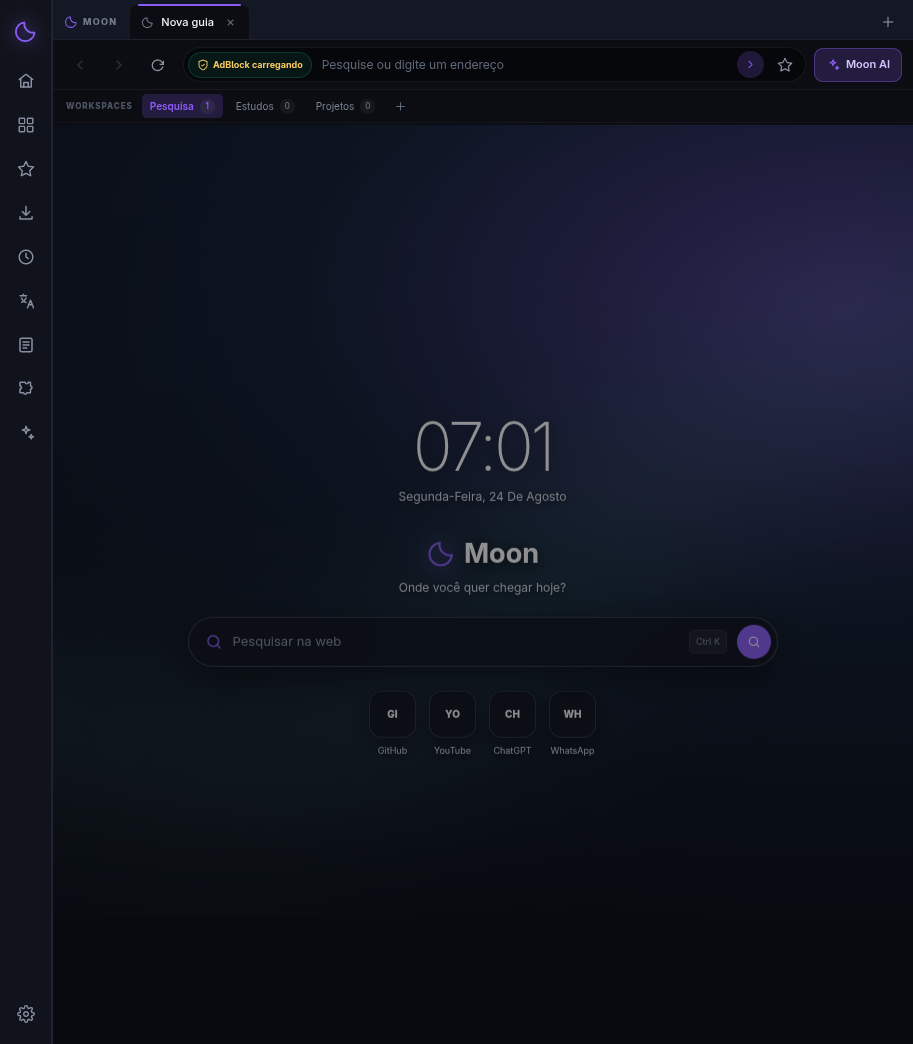
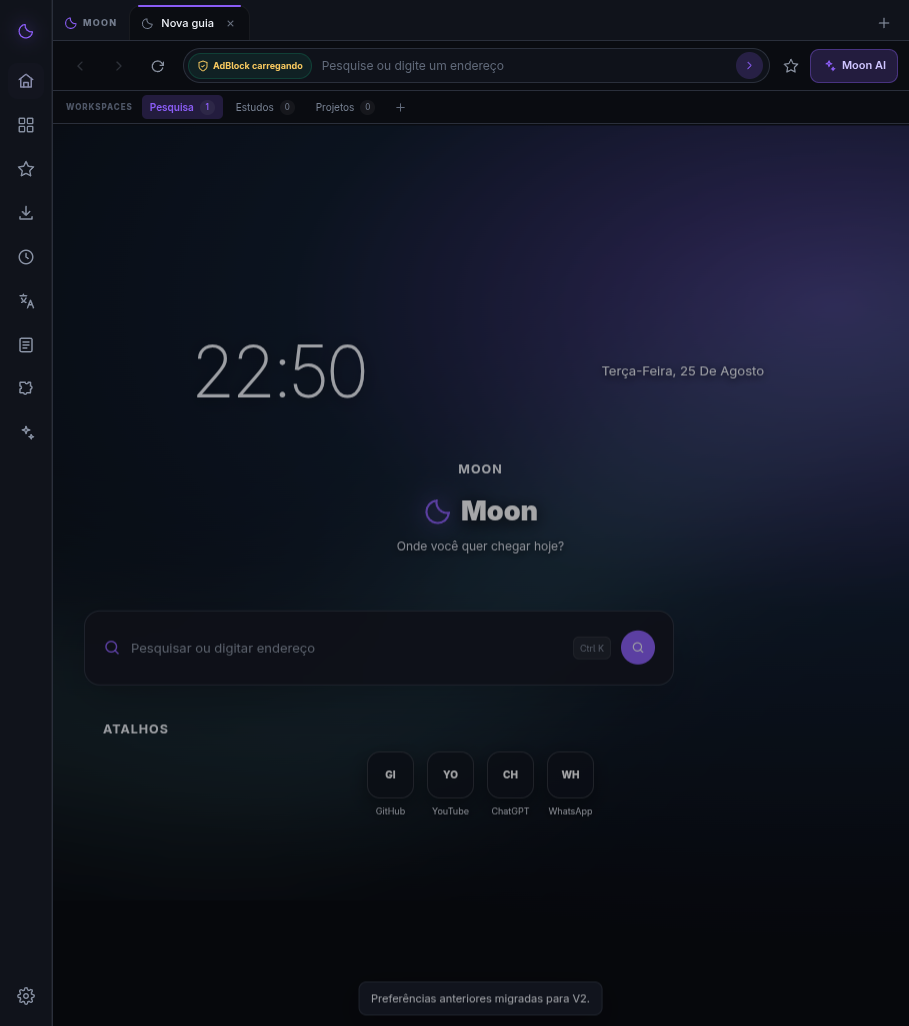
.

diff --git a/ui/customization/customization-center.ts b/ui/customization/customization-center.ts
@@ -185,8 +185,8 @@ export class CustomizationCenter {
 
   #typography(config: CustomizationConfig): void {
     this.#intro("Tipografia", "Escalas separadas sem alterar o zoom das páginas visitadas.");
-    const rhythm = this.#group("Família e ritmo", "Família instalada com fallbacks; caracteres capazes de injetar CSS são rejeitados.", "fonte família tamanho escala peso line height spacing"); rhythm.append(this.#input("Família", config.typography.family, "text", value => this.#set("typography.family", value), "Inter, system-ui, sans-serif"), this.#rangeGrid([["Tamanho base", "typography.baseSize", config.typography.baseSize, 11, 22, 1], ["Escala", "typography.scale", config.typography.scale, .8, 1.4, .05], ["Peso", "typography.weight", config.typography.weight, 300, 800, 100], ["Altura de linha", "typography.lineHeight", config.typography.lineHeight, 1.1, 2, .05], ["Letter spacing", "typography.letterSpacing", config.typography.letterSpacing, -.05, .15, .01]]));
-    const contexts = this.#group("Contextos", "Interface, omnibox, abas, Home e ícones têm escalas independentes.", "ui omnibox tabs home icon labels"); contexts.append(this.#rangeGrid([["Interface", "typography.uiSize", config.typography.uiSize, 9, 20, 1], ["Omnibox", "typography.omniboxSize", config.typography.omniboxSize, 10, 22, 1], ["Abas", "typography.tabSize", config.typography.tabSize, 9, 18, 1], ["Home", "typography.homeSize", config.typography.homeSize, 12, 28, 1], ["Ícones", "typography.iconScale", config.typography.iconScale, .75, 1.5, .05]]), this.#toggle("Mostrar labels", config.typography.labels, value => this.#set("typography.labels", value)));
+    const rhythm = this.#group("Família e ritmo", "Família instalada com fallbacks; caracteres capazes de injetar CSS são rejeitados.", "tipografia fonte família tamanho escala peso line height spacing"); rhythm.append(this.#input("Família", config.typography.family, "text", value => this.#set("typography.family", value), "Inter, system-ui, sans-serif"), this.#rangeGrid([["Tamanho base", "typography.baseSize", config.typography.baseSize, 11, 22, 1], ["Escala", "typography.scale", config.typography.scale, .8, 1.4, .05], ["Peso", "typography.weight", config.typography.weight, 300, 800, 100], ["Altura de linha", "typography.lineHeight", config.typography.lineHeight, 1.1, 2, .05], ["Letter spacing", "typography.letterSpacing", config.typography.letterSpacing, -.05, .15, .01]]));
+    const contexts = this.#group("Contextos", "Interface, omnibox, abas, Home e ícones têm escalas independentes.", "tipografia ui omnibox tabs home icon labels"); contexts.append(this.#rangeGrid([["Interface", "typography.uiSize", config.typography.uiSize, 9, 20, 1], ["Omnibox", "typography.omniboxSize", config.typography.omniboxSize, 10, 22, 1], ["Abas", "typography.tabSize", config.typography.tabSize, 9, 18, 1], ["Home", "typography.homeSize", config.typography.homeSize, 12, 28, 1], ["Ícones", "typography.iconScale", config.typography.iconScale, .75, 1.5, .05]]), this.#toggle("Mostrar labels", config.typography.labels, value => this.#set("typography.labels", value)));
     this.#content.append(rhythm, contexts);
   }
 

diff --git a/scripts/development/capture-screenshots.ts b/scripts/development/capture-screenshots.ts
@@ -2,6 +2,7 @@ import { _electron as electron, expect, type ElectronApplication, type Page } fr
 import { mkdtemp, rm } from "node:fs/promises";
 import { join } from "node:path";
 import { tmpdir } from "node:os";
+import { existsSync } from "node:fs";
 
 async function shellWindow(application: ElectronApplication): Promise<Page> {
   await expect.poll(() => application.windows().some(page => page.url().startsWith("file:") && page.url().endsWith("/index.html"))).toBe(true);
@@ -9,11 +10,19 @@ async function shellWindow(application: ElectronApplication): Promise<Page> {
 }
 
 const profile = await mkdtemp(join(tmpdir(), "moon-screenshot-profile-"));
-const platformArguments = process.env.WAYLAND_DISPLAY ? ["--ozone-platform=wayland"] : [];
+const runtimeDirectory = process.env.XDG_RUNTIME_DIR ?? `/run/user/${process.getuid?.() ?? 1000}`;
+const detectedWayland = process.env.WAYLAND_DISPLAY ?? (existsSync(join(runtimeDirectory, "wayland-1")) ? "wayland-1" : undefined);
+const detectedDisplay = process.env.DISPLAY ?? (existsSync("/tmp/.X11-unix/X0") ? ":0" : undefined);
+const desktopEnv = {
+  ...process.env,
+  ...(detectedWayland ? { WAYLAND_DISPLAY: detectedWayland, XDG_RUNTIME_DIR: runtimeDirectory } : {}),
+  ...(detectedDisplay ? { DISPLAY: detectedDisplay } : {})
+};
+const platformArguments = detectedWayland ? ["--ozone-platform=wayland"] : [];
 const application = await electron.launch({
   args: [...platformArguments, `--user-data-dir=${profile}`, "."],
   cwd: process.cwd(),
-  env: { ...process.env, NODE_ENV: "test", MOON_TEST_PROFILE_DIR: profile }
+  env: { ...desktopEnv, NODE_ENV: "test", MOON_TEST_PROFILE_DIR: profile }
 });
 
 try {

diff --git a/docs/roadmap/status.md b/docs/roadmap/status.md
@@ -1,6 +1,6 @@
 # Moon Browser — status de reconstrução
 
-Atualizado em 24 de agosto de 2026. Este documento descreve somente capacidades conectadas ao runtime ativo.
+Atualizado em 25 de agosto de 2026. Este documento descreve somente capacidades conectadas ao runtime ativo.
 
 ## Moon Foundation Recovery
 
@@ -11,7 +11,7 @@ Atualizado em 24 de agosto de 2026. Este documento descreve somente capacidades 
 | Build e workspaces coerentes | Concluído | `package.json`, `electron-builder.yml`, lockfile |
 | CI install/type/lint/test/E2E/build/audit | Concluído | `.github/workflows/quality.yml` |
 | ADRs obrigatórios | Concluído | `docs/adr/0001` a `0006` |
-| Shell decomposto | Parcial avançado | Home, toolbar, tab strip, workspace bar, permissões e contratos separados; settings e alguns painéis ainda serão extraídos |
+| Shell decomposto | Parcial avançado | Home, toolbar, tab strip, workspace bar, permissões e contratos separados; painéis de produto ainda serão extraídos |
 | CSS decomposto | Concluído para o runtime atual | globals é agregador; shell, Home, painéis, settings, responsive e accessibility separados |
 | Application Service inicial | Concluído | `BrowserApplicationService` é a API usada pelo IPC de browser |
 | Core conectado a tabs | Concluído | `TabManager`, `MoonStateStore` e `MoonEventBus` reconciliam eventos do browser real |
@@ -22,22 +22,33 @@ Atualizado em 24 de agosto de 2026. Este documento descreve somente capacidades 
 | Flags e documentação verdadeiras | Concluído | IA, extensões e updater permanecem desativados |
 | Wallpapers locais e screenshots atuais | Concluído | assets locais, CSP sem imagens remotas automáticas e capturas do runtime |
 
+## Personalização V2 — Fase 1
+
+| Entrega | Estado | Evidência |
+|---|---|---|
+| Fonte de verdade versionada | Concluído | `ui/customization/customization-schema.ts` e `customization-store.ts` |
+| Preview, aplicar, cancelar, undo/redo e reset granular | Concluído | Central ativa em `ui/customization/customization-center.ts` |
+| Aparência, layout, Home, tipografia, pesquisa e escopo | Concluído | `customization-applier.ts`, Home e toolbar ativos |
+| Temas salvos, migração V1 e import/export V2 | Concluído | schema validado, bridge desktop e E2E de reinício/importação |
+| Wallpaper remoto opcional e seguro | Concluído | HTTPS restrito, destino público, tipo/tamanho validados e dados servidos pelo main; CSP continua restritiva |
+| Capturas do runtime V2 | Concluído | `assets/screenshots/page.png` a `page2.png` |
+
 ## Quality gates atuais
 
 - TypeScript estrito e ESLint.
-- 14 testes unitários.
-- 12 testes de integração do shell.
+- 22 testes unitários.
+- 14 testes de integração do shell.
 - 5 testes SQLite no runtime Electron.
-- 2 E2E Electron: smoke de módulos e restore de sessão.
+- 4 E2E Electron: smoke, restore de sessão, persistência V2 e import/export da bridge desktop.
 - Build Linux AppImage e deb; a validação final desta recuperação deve ser repetida após cada alteração de empacotamento.
 
 ## Dívida explícita antes das fases de produto
 
-1. Extrair settings e renderizadores de bookmarks, history, notes, downloads e security do controlador do shell.
+1. Extrair renderizadores de bookmarks, history, notes, downloads e security do controlador do shell.
 2. Mover workspaces, favoritos, histórico e notas do estado duplicado do renderer para APIs Application/repositories.
 3. Persistir e revogar decisões de permissão por origem e instalar `setPermissionCheckHandler`.
 4. Compor AdBlock e futuras políticas em um único pipeline `webRequest`.
 5. Adicionar IPC schemas compartilhados a todos os canais e testes de sender/origin/limites.
 6. Não ativar IA, extensões, updater ou VPN antes das definições de pronto registradas nos ADRs.
 
-As fases de personalização Vivaldi-class, ergonomia, segurança avançada, Universal Search e Moon Intelligence permanecem planejadas, não implementadas.
+A Fase 1 de personalização está conectada e coberta. Personalização profunda de abas/painéis, comandos em cadeia, gestos, configurações por site, Zen/Circadian avançado, ergonomia, segurança avançada, Universal Search e Moon Intelligence permanecem planejados, não implementados.

diff --git a/docs/audits/customization-v2-phase-1-2026-08-25.md b/docs/audits/customization-v2-phase-1-2026-08-25.md
@@ -1,0 +1,56 @@
+# Moon Browser — auditoria da Personalização V2, Fase 1
+
+Data: 25 de agosto de 2026  
+Escopo: personalização efetivamente conectada ao navegador Electron ativo.
+
+## Veredito
+
+A Fase 1 foi implementada como uma única fonte de verdade versionada, aplicada em tempo real ao shell que o usuário utiliza. Não há tela demonstrativa independente: Home, toolbar, layout, busca e aparência consomem o mesmo estado V2. Preferências antigas são migradas de forma recuperável e a bridge desktop oferece importação e exportação validadas.
+
+## Caminho conectado
+
+```text
+CustomizationCenter
+  -> CustomizationStore (preview / histórico / persistência V2)
+  -> CustomizationApplier (CSS variables e atributos do shell)
+  -> BrowserShell, HomeView e Toolbar ativos
+
+Importação/exportação
+  -> preload.cjs com APIs explícitas
+  -> product-ipc.ts com validação e diálogo nativo
+```
+
+## Capacidades entregues
+
+- Aparência: cores com contraste verificado, modo claro/escuro/sistema/agendado, transparência, formas, movimento, wallpaper local, cor, gradiente e wallpaper HTTPS opt-in.
+- Layout: barra lateral, drawers, toolbar, omnibox, densidade e controles reais da janela.
+- Home: presets, grid, largura/opacidade de cards, ordem/visibilidade de widgets e atalhos abertos na aba atual ou nova aba.
+- Tipografia: família sanitizada, escalas de contexto e labels.
+- Pesquisa: provedor padrão, provedores personalizados e keywords.
+- Dados: escopo global/workspace, temas salvos, import/export V2, restauração do último estado válido, migração V1, preview/cancelar, undo/redo e reset por grupo.
+
+## Segurança e recuperação
+
+- O schema limita tamanhos, valida contraste e proíbe templates de busca e fontes inseguros.
+- A importação só persiste conteúdo V2 completamente validado; o último estado válido permanece como fallback.
+- A imagem remota não é carregada pelo renderer: o processo principal exige HTTPS na porta 443, rejeita destinos locais/privados, limita redirects, MIME e 1,5 MB e devolve dados locais.
+- A CSP restritiva existente não foi relaxada.
+
+## Código retirado ou substituído
+
+Os editores de customização, Home/widgets e settings históricos que não participavam do runtime foram removidos somente após a central V2, `HomeView` e `Toolbar` ativos assumirem suas funções. O arquivo de entrada público passa a exportar apenas os módulos de personalização conectados.
+
+## Cobertura reproduzida
+
+| Gate | Resultado |
+|---|---|
+| `npm run typecheck` | passou |
+| `npm run lint` | passou |
+| `npm run test:unit` | passou: 22 testes |
+| `npm run test:integration` | passou: 14 testes |
+| `npm run test:e2e` | passou: 4 testes Electron |
+| `npm run screenshots:desktop` | passou: Home, proteção e central V2 capturadas |
+
+## Fora desta fase
+
+Não são declarados prontos: configuração profunda de abas e painéis, Quick Commands/gestos, configurações por site, Zen/Circadian avançado, nem recursos de IA, extensões, VPN ou updater. Esses itens exigem seus próprios cortes verticais e critérios de aceite.

diff --git a/CHANGELOG.md b/CHANGELOG.md
@@ -1,5 +1,20 @@
 # Changelog
 
+## Unreleased — Personalização V2, Fase 1 (2026-08-25)
+
+### Adicionado
+
+- Central de personalização conectada à janela ativa, com preview, aplicar, cancelar, undo/redo e reset granular.
+- Perfis globais ou por workspace para aparência, layout, Home, tipografia e pesquisa.
+- Home configurável com grid, widgets, atalhos, cards e favoritos; toolbar reordenável por botões ou teclado.
+- Temas salvos, migração de preferências V1, exportação e importação versionada.
+- Persistência V2 coberta por testes de unidade, integração e reinício real do Electron.
+
+### Segurança
+
+- Importação rejeita versões, estruturas, URLs, cores e fontes inválidas antes de persistir.
+- Wallpaper remoto é opt-in: somente HTTPS público, com redirects, MIME e tamanho limitados; a CSP do renderer continua sem acesso remoto direto.
+
 ## 0.1.0 — Foundation Recovery (2026-08-24)
 
 ### Adicionado
